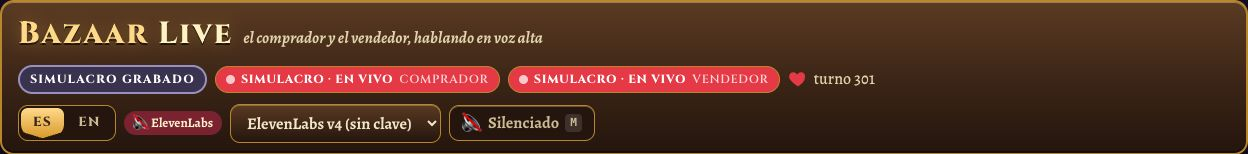
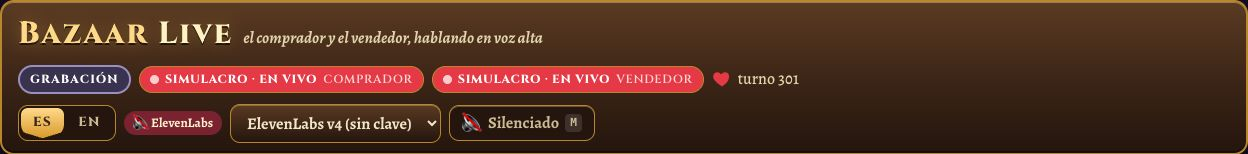
fix: review of the badge (an agent's target survives a failed poll, shorter labels, per-agent detail in the title)

Changed region(s): [[0.0, 0.4156, 0.7188, 0.6234]]

diff --git a/src/ui/mode.test.ts b/src/ui/mode.test.ts
@@ -1,6 +1,6 @@
 import { describe, expect, it } from 'vitest'
 import type { AgentHealth } from '../model/events'
-import { modeOf, worldOf } from './mode'
+import { modeOf, rememberTargets, worldOf } from './mode'
 
 const h = (patch: Partial<AgentHealth> = {}): AgentHealth => ({
   ok: true, agent: 'taker', mode: 'live', tick: 1, doors: 'open', paused: false, nextOpens: null, tickSeconds: 30, serverTick: 1, target: 'real', ...patch,
@@ -16,25 +16,49 @@ describe('modeOf: LIVE, DRY RUN or OFFLINE from /health', () => {
 })
 
 describe('worldOf: REAL GAME or SIMULATOR from /health target.mode', () => {
-  it('both agents on the real game', () => {
-    expect(worldOf({ taker: h(), maker: h({ agent: 'maker' }) }, false)).toBe('real')
-  })
+  const targets = (taker: 'real' | 'simulator' | null, maker: 'real' | 'simulator' | null) => ({ taker, maker })
 
-  it('both agents on the simulator', () => {
-    expect(worldOf({ taker: h({ target: 'simulator' }), maker: h({ agent: 'maker', target: 'simulator' }) }, false)).toBe('simulator')
+  it('both agents on the real game, or both on the simulator', () => {
+    expect(worldOf(targets('real', 'real'), false)).toBe('real')
+    expect(worldOf(targets('simulator', 'simulator'), false)).toBe('simulator')
   })
 
   it('one on each is a mix, never quietly called real', () => {
-    expect(worldOf({ taker: h(), maker: h({ agent: 'maker', target: 'simulator' }) }, false)).toBe('mixed')
+    expect(worldOf(targets('real', 'simulator'), false)).toBe('mixed')
   })
 
-  it('one agent known is enough; none known (not loaded, offline, no target field) is unknown', () => {
-    expect(worldOf({ taker: null, maker: h({ agent: 'maker', target: 'simulator' }) }, false)).toBe('simulator')
-    expect(worldOf({ taker: null, maker: null }, false)).toBe('unknown')
-    expect(worldOf({ taker: h({ ok: false }), maker: h({ target: null }) }, false)).toBe('unknown')
+  it('one agent known is enough; none known is unknown', () => {
+    expect(worldOf(targets(null, 'simulator'), false)).toBe('simulator')
+    expect(worldOf(targets(null, null), false)).toBe('unknown')
   })
 
-  it('the recorded mock is always labelled as such, whatever its health says', () => {
-    expect(worldOf({ taker: h(), maker: h() }, true)).toBe('mock')
+  it('the recorded mock is always labelled as such', () => {
+    expect(worldOf(targets('real', 'real'), true)).toBe('mock')
+  })
+})
+
+describe('rememberTargets: a missed poll does not forget what an agent said', () => {
+  const none = { taker: null, maker: null }
+
+  it('takes the target of an agent that answered', () => {
+    expect(rememberTargets(none, { taker: h(), maker: h({ agent: 'maker', target: 'simulator' }) })).toEqual({ taker: 'real', maker: 'simulator' })
+  })
+
+  it('keeps the last target through a failed poll, an offline agent and an answer without a target', () => {
+    const known = { taker: 'simulator', maker: 'real' } as const
+    expect(rememberTargets(known, { taker: null, maker: h({ agent: 'maker' }) })).toEqual(known)
+    expect(rememberTargets(known, { taker: h({ ok: false }), maker: h({ target: null }) })).toEqual(known)
+  })
+
+  it('MIXED survives one missed /health instead of flipping to REAL', () => {
+    const mixed = rememberTargets(none, { taker: h({ target: 'simulator' }), maker: h({ agent: 'maker' }) })
+    expect(worldOf(mixed, false)).toBe('mixed')
+    const afterMiss = rememberTargets(mixed, { taker: null, maker: h({ agent: 'maker' }) })
+    expect(worldOf(afterMiss, false)).toBe('mixed')
+  })
+
+  it('returns the same object when nothing changed (no needless render)', () => {
+    const known = { taker: 'real', maker: 'real' } as const
+    expect(rememberTargets(known, { taker: h(), maker: h() })).toBe(known)
   })
 })

diff --git a/src/ui/mode.ts b/src/ui/mode.ts
@@ -14,16 +14,26 @@ export function modeOf(health: AgentHealth | null, feed: FeedStatus): Mode {
 /** Which game the agents are playing in, as the page labels it. */
 export type World = 'real' | 'simulator' | 'mixed' | 'mock' | 'unknown'
 
+export type Target = 'real' | 'simulator'
+export type Targets = Readonly<Record<AgentId, Target | null>>
+
+/** The target each agent last reported: it is fixed per deploy, so a failed poll must not forget it. */
+export function rememberTargets(known: Targets, health: Readonly<Record<AgentId, AgentHealth | null>>): Targets {
+  const next = (agent: AgentId): Target | null => (health[agent]?.ok && health[agent]?.target ? (health[agent]?.target ?? null) : known[agent])
+  const targets: Targets = { taker: next('taker'), maker: next('maker') }
+  return targets.taker === known.taker && targets.maker === known.maker ? known : targets
+}
+
 /**
  * REAL GAME or SIMULATOR comes from the agents' own /health (`target.mode`), never guessed: both real is
  * `real`, both simulator is `simulator`, one of each is `mixed`, and nothing known yet is `unknown`.
  * The recorded mock (`?mock=1`) is always labelled as such.
  */
-export function worldOf(health: Readonly<Record<AgentId, AgentHealth | null>>, mock: boolean): World {
+export function worldOf(targets: Targets, mock: boolean): World {
   if (mock) return 'mock'
-  const targets = [health.taker, health.maker].flatMap((h) => (h?.ok && h.target ? [h.target] : []))
-  if (targets.length === 0) return 'unknown'
-  if (targets.every((t) => t === 'real')) return 'real'
-  if (targets.every((t) => t === 'simulator')) return 'simulator'
+  const known = [targets.taker, targets.maker].filter((t): t is Target => t !== null)
+  if (known.length === 0) return 'unknown'
+  if (known.every((t) => t === 'real')) return 'real'
+  if (known.every((t) => t === 'simulator')) return 'simulator'
   return 'mixed'
 }

diff --git a/src/ui/Header.tsx b/src/ui/Header.tsx
@@ -1,11 +1,12 @@
 import { motion, useReducedMotion } from 'motion/react'
+import { useState } from 'react'
 import { TTS_PICKER, type TtsChoice } from '../config'
 import { AGENTS, type AgentHealth, type AgentId } from '../model/events'
 import type { FeedStatus } from '../net/feed'
 import type { ShowState } from '../show/engine'
 import { LANGS, type Lang } from '../../shared/lang.ts'
 import { setLang, useLang, useStrings } from './lang'
-import { modeOf, worldOf, type Mode } from './mode'
+import { modeOf, rememberTargets, worldOf, type Mode, type Targets } from './mode'
 import type { SpeechControls } from './useShow'
 
 
@@ -32,9 +33,15 @@ function ModeBadge({ agent, health, feed, mock }: { agent: AgentId; health: Agen
 /** Always visible: which game the agents play in (the real one or the simulator), from their /health. */
 function WorldBadge({ state, mock }: { state: ShowState; mock: boolean }) {
   const t = useStrings()
-  const world = worldOf(state.health, mock)
+  // Each agent's target is remembered across a failed poll (it is fixed per deploy): one missed /health
+  // must not turn MIXED into REAL.
+  const [known, setKnown] = useState<Targets>({ taker: null, maker: null })
+  const next = rememberTargets(known, state.health)
+  if (next !== known) setKnown(next)
+  const world = worldOf(next, mock)
+  const detail = `${t.who.taker}: ${next.taker ? t.worlds[next.taker] : '?'} · ${t.who.maker}: ${next.maker ? t.worlds[next.maker] : '?'}`
   return (
-    <span className={`badge world ${world}`} role="status" title={t.worlds[world]}>
+    <span className={`badge world ${world}`} role="status" title={mock ? t.worlds.mock : detail}>
       {t.worlds[world]}
     </span>
   )

diff --git a/src/ui/strings.ts b/src/ui/strings.ts
@@ -103,7 +103,7 @@ const ES: Strings = {
   tags: { laughs: 'ríe', chuckles: 'se ríe', gasps: 'se sorprende', sighs: 'suspira', snorts: 'bufa', sarcastic: 'con sorna', whispers: 'susurra', excited: 'emocionado', mischievously: 'con picardía', curious: 'curioso' },
   brandTag: 'el comprador y el vendedor, hablando en voz alta',
   modes: { live: 'EN VIVO', dry: 'ENSAYO', offline: 'SIN CONEXIÓN' },
-  worlds: { real: 'JUEGO REAL', simulator: 'SIMULADOR', mixed: 'MEZCLA: REAL Y SIMULADOR', mock: 'SIMULACRO GRABADO', unknown: 'JUEGO ¿?' },
+  worlds: { real: 'JUEGO REAL', simulator: 'SIMULADOR', mixed: 'MEZCLA', mock: 'GRABACIÓN', unknown: 'JUEGO ¿?' },
   who: { taker: 'comprador', maker: 'vendedor' },
   mock: 'SIMULACRO',
   voiceLabel: 'Proveedor de voz',
@@ -164,7 +164,7 @@ const EN: Strings = {
   tags: {},
   brandTag: 'the buyer and the seller, talking out loud',
   modes: { live: 'LIVE', dry: 'DRY RUN', offline: 'OFFLINE' },
-  worlds: { real: 'REAL GAME', simulator: 'SIMULATOR', mixed: 'MIXED: REAL + SIMULATOR', mock: 'RECORDED MOCK', unknown: 'GAME ?' },
+  worlds: { real: 'REAL GAME', simulator: 'SIMULATOR', mixed: 'MIXED', mock: 'RECORDING', unknown: 'GAME ?' },
   who: { taker: 'buyer', maker: 'seller' },
   mock: 'MOCK',
   voiceLabel: 'Voice provider',

diff --git a/README.md b/README.md
@@ -65,7 +65,7 @@ Contracts: [`bazaar/docs/services.md`](https://github.com/claude-hackaton-madrid
   back online); dedupe by `agent|id|type|tick|t` (both agents count ids from -1 and restart at -1
   after a deploy, so the id alone is not unique); the join replay (the last 200 events) goes to the
   transcript as history, live events go to the stage.
-- **LIVE / DRY RUN** comes from each agent's `GET /health` (`mode`), polled every 20 s. The header also always shows **which game** they play in, from the same `/health` (`target.mode`): JUEGO REAL / REAL GAME, SIMULADOR / SIMULATOR, a MIX when the two disagree, `GAME ?` before anything is known, and the recorded mock is labelled as such. No extra fetch. The maker's
+- **LIVE / DRY RUN** comes from each agent's `GET /health` (`mode`), polled every 20 s. The header also always shows **which game** they play in, from the same `/health` (`target.mode`): JUEGO REAL / REAL GAME, SIMULADOR / SIMULATOR, MEZCLA / MIXED when the two disagree, `GAME ?` while no agent has reported a target, and the recorded mock labelled as such. The last target each agent reported is kept through a failed poll (it is fixed per deploy). No extra fetch. The maker's
   `GET /state` seeds the board with our open offers.
 - **Only public fields.** `src/model/sanitize.ts` mirrors the allow-list of bazaar PR #69
   (`public_decision`, `public_execution`): kind, card, venue, counterparty, the price on a row actually
